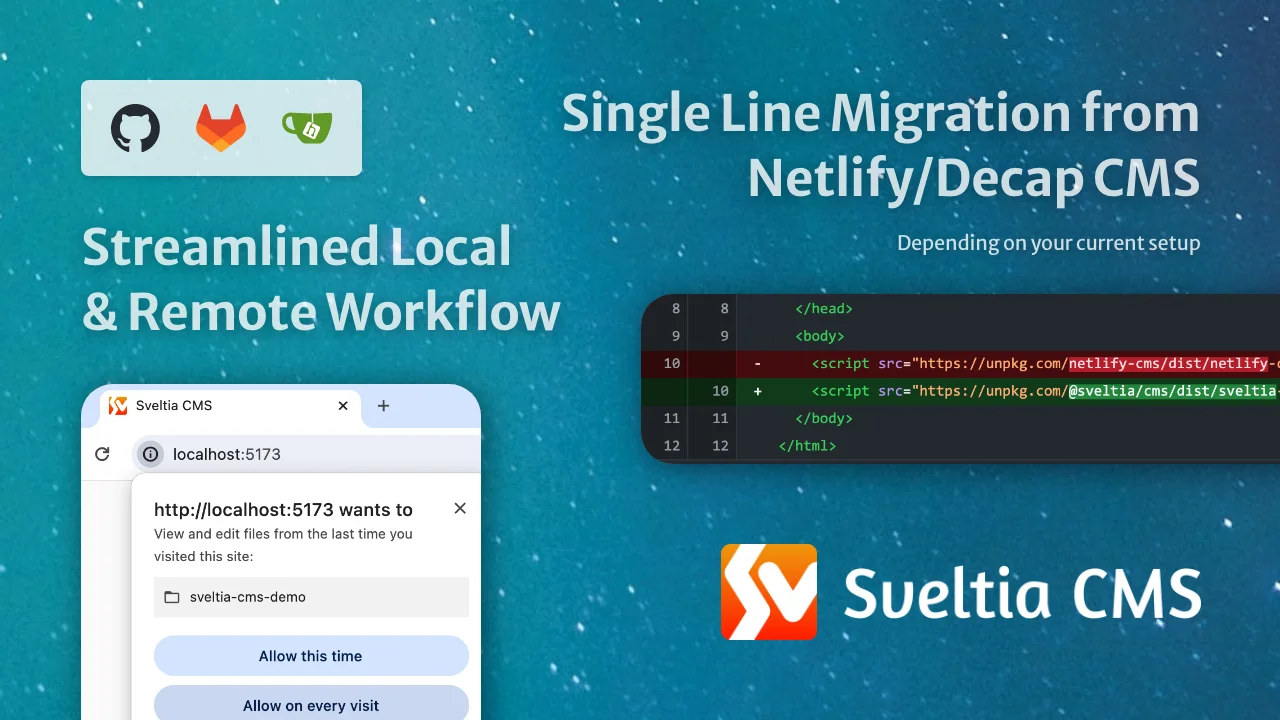
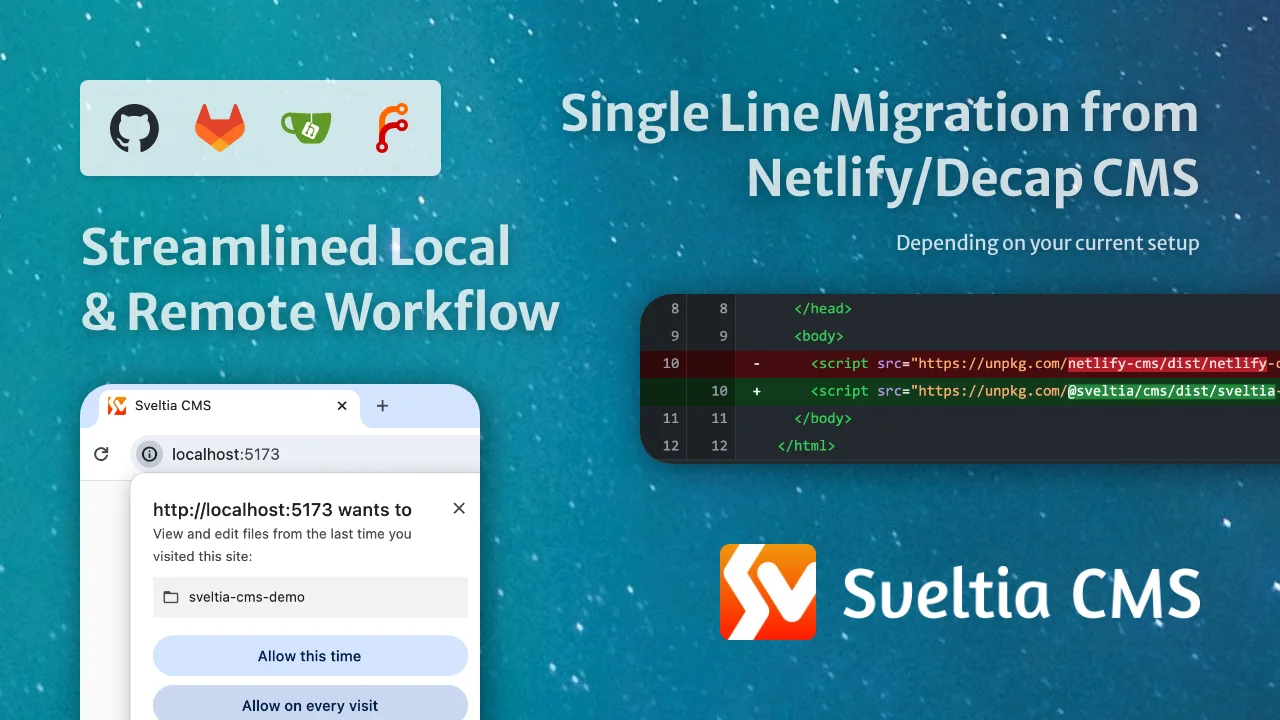
[skip ci] Update README.md

diff --git a/README.md b/README.md
@@ -14,7 +14,7 @@ The free, open source alternative/successor to Netlify/Decap CMS is now in publi
 
 ![Built-in image optimizer for WebP and SVG; mobile & tablet support](https://raw.githubusercontent.com/sveltia/sveltia-cms/main/docs/screenshot-5.webp?20250409)<br>
 
-![Streamlined local and remote workflow; GitHub, GitLab & Gitea support; single-line migration from Netlify/Decap CMS (depending on your current setup); Sveltia CMS](https://raw.githubusercontent.com/sveltia/sveltia-cms/main/docs/screenshot-6.webp?20250526)<br>
+![Streamlined local and remote workflow; GitHub, GitLab Gitea & Forgejo support; single-line migration from Netlify/Decap CMS (depending on your current setup); Sveltia CMS](https://raw.githubusercontent.com/sveltia/sveltia-cms/main/docs/screenshot-6.webp?20250526)<br>
 
 ## Table of contents
 
@@ -178,7 +178,7 @@ Note: This lengthy section compares Sveltia CMS with both Netlify CMS and Decap 
 - Small footprint: The bundle size is less than 500 KB when minified and [brotlied](https://en.wikipedia.org/wiki/Brotli), which is much lighter than Netlify CMS (1.5 MB), Decap CMS (1.5 MB) and Static CMS (2.6 MB).[^57][^64] This number is remarkable because even though some Netlify/Decap CMS features are [omitted](#features-not-to-be-implemented) or [unimplemented](#current-limitations) in Sveltia CMS, we have added a lot of new features. That’s the power of [Svelte 5](https://svelte.dev/blog/svelte-5-is-alive) + [Vite](https://vite.dev/).
 - Uses the GraphQL API for GitHub and GitLab to quickly fetch content at once, so that entries and assets can be listed and searched instantly[^32][^65] (the useless `search` configuration option is therefore ignored). It also avoids the slowness and potential API rate limit violations caused by hundreds of requests with Relation fields.[^14]
 - Saving entries and assets to GitHub is also much faster thanks to the [GraphQL mutation](https://github.blog/changelog/2021-09-13-a-simpler-api-for-authoring-commits/).
-- The Gitea backend is also faster because it utilizes an efficient API method introduced in Gitea 1.24.
+- The Gitea/Forgejo backend is also faster because it utilizes an efficient API method introduced in Gitea 1.24 and Forgejo 12.0.
 - Our [local repository workflow](#working-with-a-local-git-repository) utilizes the modern [File System Access API](https://developer.chrome.com/docs/capabilities/web-apis/file-system-access) to read and write files natively through the web browser, rather than using a slow, ad hoc REST API through a proxy server.
 - Sorting, filtering and grouping of entries is done instantly without reloading the entire content.
 - Uses caching, lazy loading and infinite scrolling techniques. A list of repository files is stored locally for faster startup and bandwidth savings.
@@ -247,12 +247,12 @@ Note: This lengthy section compares Sveltia CMS with both Netlify CMS and Decap 
 - It’s possible to [disable automatic deployments](#disabling-automatic-deployments) by default or on demand to save costs and resources associated with CI/CD and to publish multiple changes at once.[^24]
 - The GitLab backend support comes with background [service status](https://status.gitlab.com/) checking, just like GitHub.
 - Service status checks are performed frequently and an incident notification is displayed prominently.
-- Users can quickly open the source file of an entry or asset in your repository using View on GitHub (or GitLab or Gitea) under the 3-dot menu when Developer Mode is enabled.
+- Users can quickly open the source file of an entry or asset in your repository via the 3-dot menu when Developer Mode is enabled.
 - We provide [our own OAuth client](https://github.com/sveltia/sveltia-cms-auth) for GitHub and GitLab.
 - The GitLab backend supports Git LFS ([documentation](https://docs.gitlab.com/topics/git/lfs/)).[^231]
 - Users won’t get a 404 Not Found error when you sign in to the GitLab backend.[^115]
-- Our Gitea backend is high-performing because it retrieves multiple entries at once. It also supports Git LFS ([documentation](https://docs.gitea.com/administration/git-lfs-setup)). Additionally, the backend won’t cause 400 Bad Request errors due to the presence of `DRAFT_MEDIA_FILES` in file paths.[^222]
-- The OAuth access token is automatically renewed when using the GitLab or Gitea backend with PKCE authorization.[^224] Token renewal for other backend configurations will be implemented later.
+- Our Gitea/Forgejo backend is high-performing because it retrieves multiple entries at once. It also supports Git LFS ([documentation](https://docs.gitea.com/administration/git-lfs-setup)). Additionally, the backend won’t cause 400 Bad Request errors due to the presence of `DRAFT_MEDIA_FILES` in file paths.[^222]
+- The OAuth access token is automatically renewed when using the GitLab or Gitea/Forgejo backend with PKCE authorization.[^224] Token renewal for other backend configurations will be implemented later.
 - Features the all-new [local repository workflow](#working-with-a-local-git-repository) that boosts DX. See the [productivity section](#better-productivity) above.
 - Developers can select the local and remote backends while working on a local server.
 - The Test backend saves entries and assets in the browser’s [origin private file system](https://web.dev/articles/origin-private-file-system) (OPFS) so that changes are not discarded when the browser tab is closed or reloaded.[^194] The persistent storage support works with all modern browsers [except Safari](https://bugs.webkit.org/show_bug.cgi?id=254726).
@@ -605,7 +605,6 @@ These Netlify/Decap CMS features are not yet implemented in Sveltia CMS. We are 
 
 - Comprehensive site config validation
 - [Localization](https://github.com/sveltia/sveltia-cms/blob/main/src/lib/locales/README.md) other than English and Japanese
-- [Forgejo backend](https://decapcms.org/docs/gitea-backend/) ([#381](https://github.com/sveltia/sveltia-cms/issues/381))
 - [Cloudinary](https://decapcms.org/docs/cloudinary/) and [Uploadcare](https://decapcms.org/docs/uploadcare/) media libraries ([#4](https://github.com/sveltia/sveltia-cms/discussions/4))
 - Field-specific media folders (beta) for the [File](https://decapcms.org/docs/widgets/#file) and [Image](https://decapcms.org/docs/widgets/#image) widgets
 - LineString and Polygon types for the [Map](https://decapcms.org/docs/widgets/#map) widget
@@ -654,7 +653,7 @@ We have added support for features and file structures used in certain framework
 ### Backend support
 
 - The GitLab backend requires GitLab 16.3 or later.
-- The Gitea backend requires Gitea 1.24 or later. It’s not compatible with Forgejo at this time due to API differences. Support for Forgejo is tracked in [#381](https://github.com/sveltia/sveltia-cms/issues/381). The default origin of the `base_url` and `api_root` [backend options](https://decapcms.org/docs/backends-overview/#backend-configuration) is set to `https://gitea.com` (public free service) instead of `https://try.gitea.io` (test instance).
+- The Gitea/Forgejo backend requires Gitea 1.24, Forgejo 12.0 or later. The default origin of the `base_url` and `api_root` [backend options](https://decapcms.org/docs/backends-overview/#backend-configuration) is set to `https://gitea.com` (public free service) instead of `https://try.gitea.io` (test instance).
 
 ### Browser support
 
@@ -673,7 +672,7 @@ Sveitia CMS works with all modern browsers, but there are a few limitations beca
 
 ### Installation & setup
 
-Currently, Sveltia CMS is primarily intended for existing Netlify/Decap CMS users. If you don’t have it yet, follow [their documentation](https://decapcms.org/docs/basic-steps/) to add it to your site and create a configuration file first. Skip the [Choosing a Backend](https://decapcms.org/docs/choosing-a-backend/) page and choose the [GitHub](https://decapcms.org/docs/github-backend/), [GitLab](https://decapcms.org/docs/gitlab-backend/) or [Gitea](https://decapcms.org/docs/gitea-backend/) backend instead. Then migrate to Sveltia CMS as described below.
+Currently, Sveltia CMS is primarily intended for existing Netlify/Decap CMS users. If you don’t have it yet, follow [their documentation](https://decapcms.org/docs/basic-steps/) to add it to your site and create a configuration file first. Skip the [Choosing a Backend](https://decapcms.org/docs/choosing-a-backend/) page and choose the [GitHub](https://decapcms.org/docs/github-backend/), [GitLab](https://decapcms.org/docs/gitlab-backend/) or [Gitea/Forgejo](https://decapcms.org/docs/gitea-backend/) backend instead. Then migrate to Sveltia CMS as described below.
 
 Or try one of the starter kits for popular frameworks created by community members:
 
@@ -692,7 +691,7 @@ Unfortunately, we are unable to provide free installation and setup support at t
 
 ### Migration
 
-Have a look at the [compatibility info](#compatibility) above first. If you’re already using Netlify/Decap CMS with the GitHub, GitLab or Gitea backend and don’t have any unsupported features like custom widgets or nested collections, migrating to Sveltia CMS is super easy — it works as a drop-in replacement.
+Have a look at the [compatibility info](#compatibility) above first. If you’re already using Netlify/Decap CMS with the GitHub, GitLab or Gitea/Forgejo backend and don’t have any unsupported features like custom widgets or nested collections, migrating to Sveltia CMS is super easy — it works as a drop-in replacement.
 
 Open `/admin/index.html` locally with an editor like VS Code and replace the CMS `<script>` tag with the new one:
 
@@ -810,7 +809,7 @@ Limitation: YAML anchors, aliases and merge keys only work if they are in the sa
 
 ### Working around an authentication error
 
-If you get an “Authentication Aborted” error when trying to sign in to GitHub, GitLab or Gitea using the authorization code flow, you may need to check your site’s [`Cross-Origin-Opener-Policy`](https://developer.mozilla.org/en-US/docs/Web/HTTP/Headers/Cross-Origin-Opener-Policy). The COOP header is not widely used, but it’s known to break the OAuth flow with a popup window. If that’s your case, changing `same-origin` to `same-origin-allow-popups` solves the problem. ([Discussion](https://github.com/sveltia/sveltia-cms/issues/131))
+If you get an “Authentication Aborted” error when trying to sign in to GitHub, GitLab or Gitea/Forgejo using the authorization code flow, you may need to check your site’s [`Cross-Origin-Opener-Policy`](https://developer.mozilla.org/en-US/docs/Web/HTTP/Headers/Cross-Origin-Opener-Policy). The COOP header is not widely used, but it’s known to break the OAuth flow with a popup window. If that’s your case, changing `same-origin` to `same-origin-allow-popups` solves the problem. ([Discussion](https://github.com/sveltia/sveltia-cms/issues/131))
 
 ### Working with a local Git repository
 
@@ -818,7 +817,7 @@ Sveltia CMS has simplified the local repository workflow by removing the need fo
 
 Here are the workflow steps and tips:
 
-1. Make sure you have configured the [GitHub](https://decapcms.org/docs/github-backend/), [GitLab](https://decapcms.org/docs/gitlab-backend/) or [Gitea](https://decapcms.org/docs/gitea-backend/) backend.
+1. Make sure you have configured the [GitHub](https://decapcms.org/docs/github-backend/), [GitLab](https://decapcms.org/docs/gitlab-backend/) or [Gitea/Forgejo](https://decapcms.org/docs/gitea-backend/) backend.
    - The Git Gateway backend mentioned in the Netlify/Decap CMS [local Git repository document](https://decapcms.org/docs/working-with-a-local-git-repository/) is not supported in Sveltia CMS, so `name: git-gateway` won’t work. Use `github`, `gitlab` or `gitea` for the `name` along with the `repo` definition. If you haven’t determined your repository name yet, just use a tentative name.
 1. Launch the local development server for your frontend framework, typically with `npm run dev` or `pnpm dev`.
 1. Open `http://localhost:[port]/admin/index.html` with Chrome or Edge.
@@ -1419,7 +1418,7 @@ Then, add the following origins depending on your Git backend and enabled integr
     ```
     https://gitlab.com https://status-api.hostedstatus.com
     ```
-- Gitea: (If you’re running a self-hosted instance, use the origin instead.)
+- Gitea/Forgejo: (If you’re running a self-hosted instance, use the origin instead.)
   - `img-src`
     ```
     https://gitea.com
